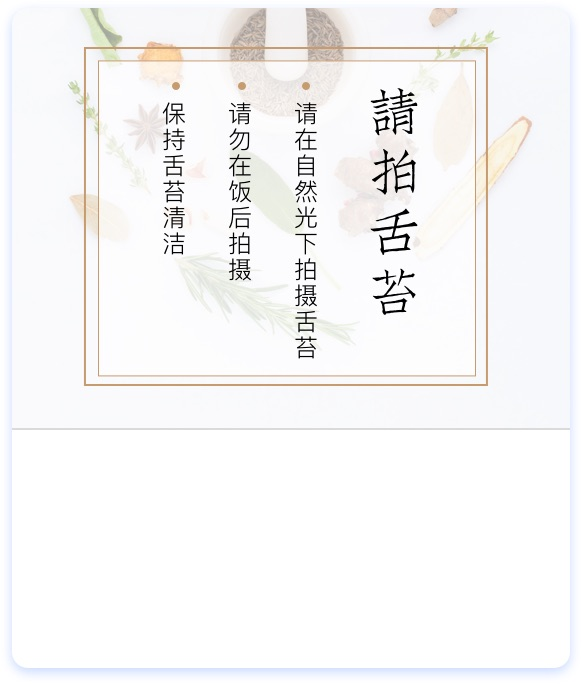
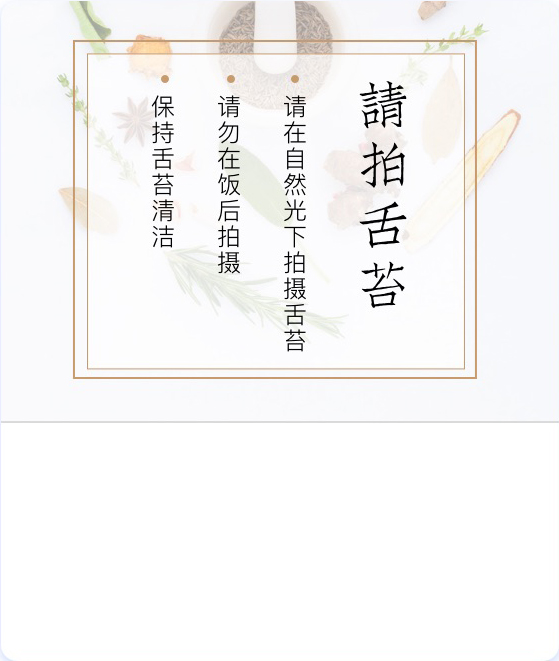
edit img

diff --git a/src/pages/medicalSuggestion.vue b/src/pages/medicalSuggestion.vue
@@ -2,9 +2,9 @@
 	<div class="wrap">
 	    <div class='recuperate'>
 	        <div class="recuperate-main" v-if='!nullHidden'>
-	            <div class="recuperate-top">
+	            <!--<div class="recuperate-top">
 	                <img src="../assets/recuperate1.png"/>
-	            </div>
+	            </div>-->
 	            <div class="recuperate-mcon">
 	                <div class="mcon-name">
 	                    <span v-if='nickname' class="mcon-block"><b>姓名：</b>{{nickname}}</span>
@@ -15,7 +15,7 @@
 	                    <span>主述症状:</span>
 	                    <p>{{illness}}</p>
 	                </div>
-	                <!--<div class="field-suggestion" >
+	                <!--<div class="field-suggestion" v-if="suggestion">
 	                    {{suggestion}}
 	                </div>-->
 	                <div class="mcon-season">
@@ -203,7 +203,7 @@
             border: 1px solid #c69b70;
             margin-left: 6.7%;
             background: #fff;
-            padding-top: rem(34rem);
+            padding-top: rem(15rem);
             font-size: $font13;
             .recuperate-top {
                 width: 44%;
@@ -335,11 +335,6 @@
 			        width: 100%;
 			        overflow: hidden;
 			        padding-top: rem(6rem);
-			        .tip {
-			            width: rem(10rem);
-			            height: rem(12rem);
-			            margin-top: rem(3.5rem);
-			        }
 			        .s-marttitle {
 			            font-size: 0.42rem;
 			            line-height: rem(40rem);
@@ -362,7 +357,7 @@
 			                margin-right: 2%;
 			                font-size: $font12;
 			                color: #999;
-			                line-height: rem(20rem);
+			                line-height: rem(21rem);
 			                display: -webkit-box;
 			                -webkit-box-orient: vertical;
 			                -webkit-line-clamp: 2;
@@ -376,11 +371,12 @@
 			                    letter-spacing: rem(1rem);
 			                }
 			                .tip {
-			                    width: rem(10rem);
+			                    width: rem(12rem);
 			                    height: rem(12rem);
 			                    float: left;
 			                    margin-right: rem(4rem);
 			                    vertical-align: middle;
+			                    margin-top: rem(3.2rem);			                    
 			                }
 			                span {
 			                    vertical-align: middle;

diff --git a/src/components/commodity.vue b/src/components/commodity.vue
@@ -203,11 +203,6 @@
         width: 100%;
         overflow: hidden;
         padding-top: rem(6rem);
-        .tip {
-            width: rem(10rem);
-            height: rem(12rem);
-            margin-top: rem(3.5rem);
-        }
         .s-marttitle {
             font-size: 0.42rem;
             line-height: rem(40rem);
@@ -230,7 +225,7 @@
                 margin-right: 2%;
                 font-size: $font12;
                 color: #999;
-                line-height: rem(20rem);
+                line-height: rem(23rem);
                 display: -webkit-box;
                 -webkit-box-orient: vertical;
                 -webkit-line-clamp: 2;
@@ -244,7 +239,7 @@
                     letter-spacing: rem(1rem);
                 }
                 .tip {
-                    width: rem(10rem);
+                    width: rem(12rem);
                     height: rem(12rem);
                    	float: left;
                    	margin-right: rem(4rem) ;
@@ -390,8 +385,9 @@
                 text-overflow: ellipsis;
                 color: #666;
                 padding-top: rem(6rem);
+                line-height: rem(15rem);
                 .tip {
-                    width: rem(10rem);
+                    width: rem(12rem);
                     height: rem(12rem);
                    	float: left;
                    	margin-right: rem(4rem);

diff --git a/src/pages/personalCenter.vue b/src/pages/personalCenter.vue
@@ -3,10 +3,6 @@
         <div class='i-content'>
             <div class='i-main'>
                 <h3 class='i-maintop'>个人中心</h3>
-                <div class='i-maincen'>
-                    <img class="i-mline" src="../assets/indexline.png"/>
-                    <img class="i-micon" src="../assets/index.png">
-                </div>
                 <div class='i-maindocter'>
                     <div style="padding: 36px 20px 20px 20px;">用于测试时清除缓存</div>
                     <div class='i-maintest' >
@@ -17,7 +13,7 @@
                 <div class='i-maindocter'>
                     <div style="padding: 36px 20px 20px 20px;">用于测试时清除缓存</div>
                     <div class='i-maintest' >
-                        <button  @click="removeUser"   style="border: 1px solid #e2c8a8;height: 28px;color: #e2c8a8;float: right;
+                        <button  @click="removeUser"  style="border: 1px solid #e2c8a8;height: 28px;color: #e2c8a8;float: right;
                         width: 100px;background-color: #fff;margin-left: 10px;">删除当前账号</button>
                     </div>
                 </div>

diff --git a/src/pages/allgoods.vue b/src/pages/allgoods.vue
@@ -128,8 +128,9 @@ export default {
 	        text-overflow: ellipsis;
 	        color: #666;
 	        margin-top: rem(2rem);
+	        line-height: rem(14.2rem);
 	        .tip {
-	            width: rem(10rem);
+	            width: rem(12rem);
 	            height: rem(12rem);
 	           	float: left;
 	           	margin-right: rem(4rem);
